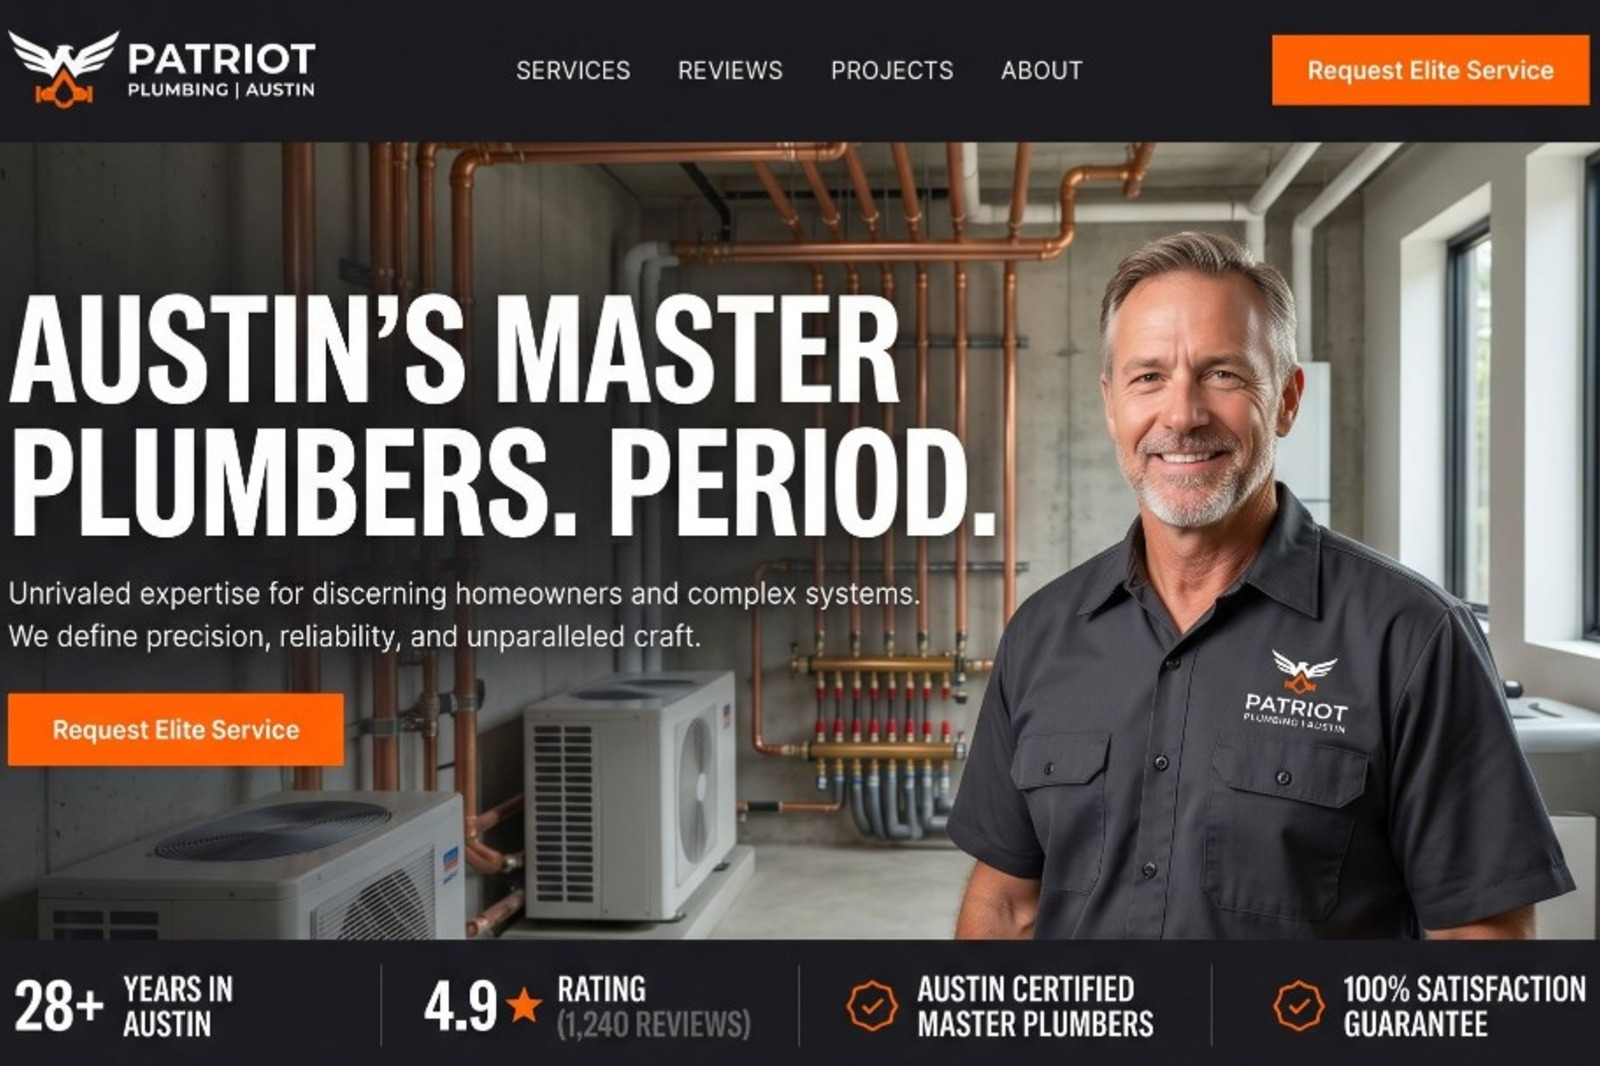
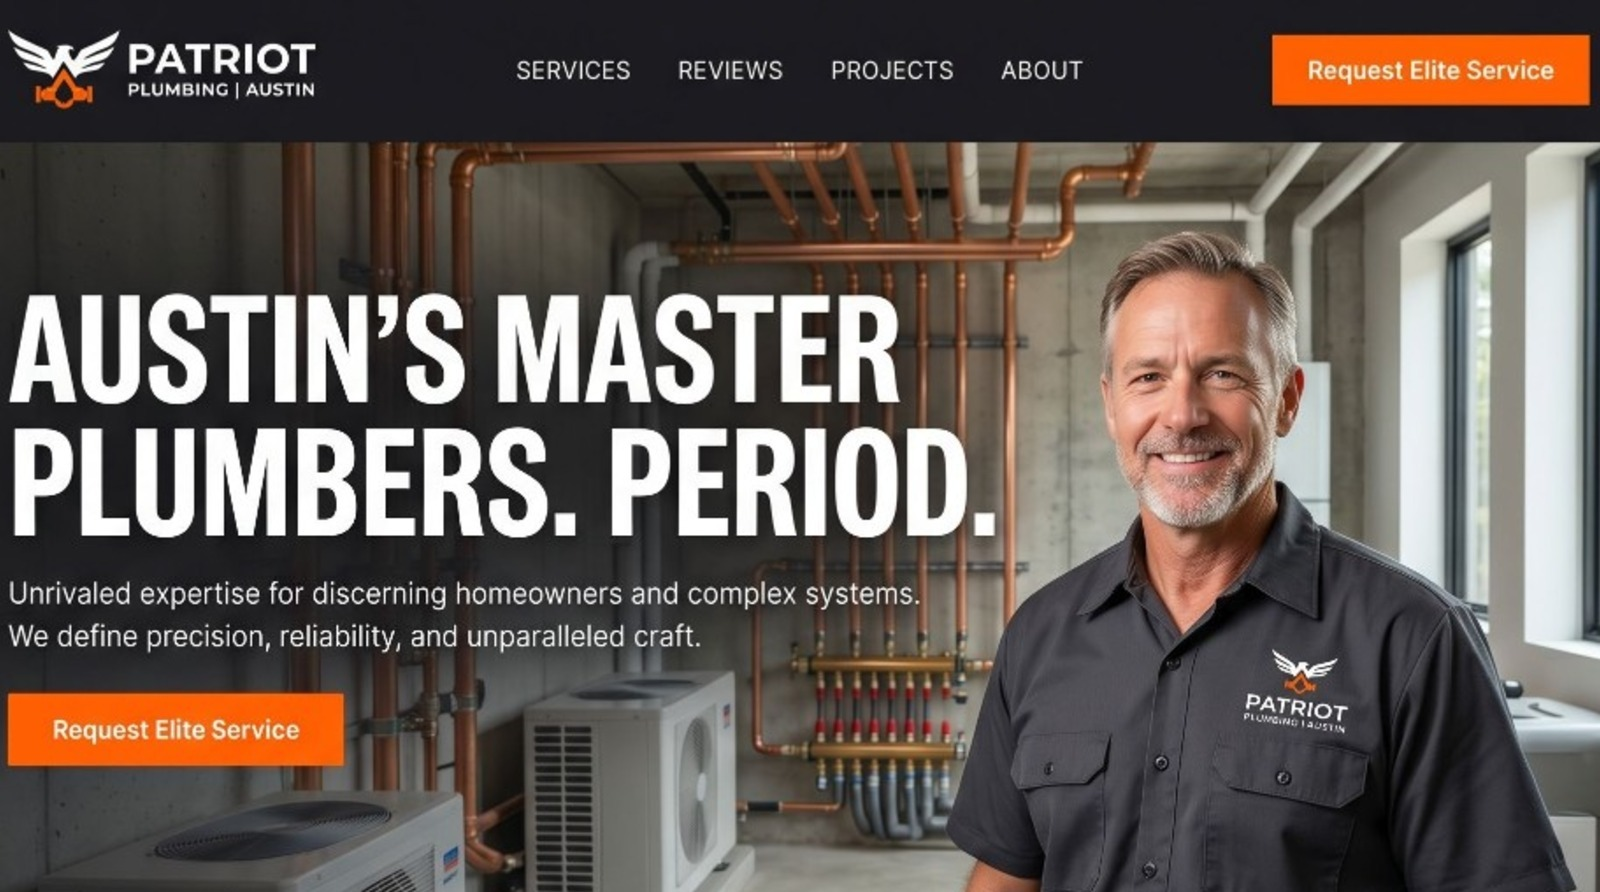
Turn the conversion lens into a multi-niche before/after showcase.
Add project navigation with fade transitions, widen the frame to the contractor mock aspect ratio, and ship fresh Plumbing, HVAC, Roofing, Contractors, and Law Firm examples.

diff --git a/scripts/conversion-mirror.js b/scripts/conversion-mirror.js
@@ -1,22 +1,65 @@
-/** Conversion lens + Before/After full-image switcher. */
+/** Conversion lens + Before/After switcher + multi-project showcase. */
+
+import { projects } from "../src/data/projects.js";
 
 const LENS_RADIUS = 150;
+
+function preload(src) {
+  return new Promise((resolve) => {
+    const img = new Image();
+    img.onload = () => resolve();
+    img.onerror = () => resolve();
+    img.src = src;
+  });
+}
 
 export function initConversionMirror() {
   const container = document.getElementById("mirrorContainer");
   const afterLayer = document.getElementById("afterLayer");
   const lensRing = document.getElementById("lensRing");
+  const beforeImg = document.getElementById("mirrorBeforeImg");
+  const afterImg = document.getElementById("mirrorAfterImg");
   const beforeBtn = document.getElementById("mirrorBeforeBtn");
   const afterBtn = document.getElementById("mirrorAfterBtn");
   const hint = document.getElementById("mirrorHint");
-  if (!container || !afterLayer || !lensRing) return;
+  const nicheLabel = document.getElementById("mirrorNicheLabel");
+  const dotsEl = document.getElementById("mirrorDots");
+  const prevBtn = document.getElementById("mirrorPrevBtn");
+  const nextBtn = document.getElementById("mirrorNextBtn");
+
+  if (!container || !afterLayer || !lensRing || !beforeImg || !afterImg) return;
+  if (!projects.length) return;
 
   let mode = "before"; // "before" | "after"
+  let index = 0;
+  let transitioning = false;
 
-  function setMode(next) {
-    mode = next;
+  function renderDots() {
+    if (!dotsEl) return;
+    dotsEl.innerHTML = projects
+      .map(
+        (project, i) => `
+        <button
+          type="button"
+          class="mirror-nav__dot${i === index ? " is-active" : ""}"
+          data-index="${i}"
+          aria-label="${project.niche}"
+          aria-pressed="${i === index ? "true" : "false"}"
+        ></button>
+      `
+      )
+      .join("");
+
+    dotsEl.querySelectorAll(".mirror-nav__dot").forEach((dot) => {
+      dot.addEventListener("click", () => {
+        const nextIndex = Number(dot.getAttribute("data-index"));
+        if (!Number.isNaN(nextIndex)) showProject(nextIndex);
+      });
+    });
+  }
+
+  function applyModeStyles() {
     const isAfter = mode === "after";
-
     container.classList.toggle("is-full-after", isAfter);
     afterLayer.setAttribute("aria-hidden", isAfter ? "false" : "true");
 
@@ -36,14 +79,57 @@ export function initConversionMirror() {
     }
 
     if (hint) {
+      const niche = projects[index]?.niche ?? "site";
       hint.textContent = isAfter
-        ? "Full After — the high-authority ToolCrate transformation."
-        : "Hover your “Conversion Lens” over the site to see the Toolcrate difference.";
+        ? `Full After — ${niche} transformation.`
+        : `Hover your “Conversion Lens” over the site to see the Toolcrate difference.`;
     }
   }
 
+  function setMode(next) {
+    mode = next;
+    applyModeStyles();
+  }
+
+  async function showProject(nextIndex, { animate = true } = {}) {
+    if (!projects.length || transitioning) return;
+    const wrapped = ((nextIndex % projects.length) + projects.length) % projects.length;
+    if (wrapped === index && beforeImg.src.includes(projects[wrapped].beforeImg)) {
+      renderDots();
+      return;
+    }
+
+    const project = projects[wrapped];
+    transitioning = true;
+
+    if (animate) {
+      container.classList.remove("is-ready");
+      container.classList.add("is-fading");
+      await new Promise((r) => setTimeout(r, 280));
+    }
+
+    await Promise.all([preload(project.beforeImg), preload(project.afterImg)]);
+
+    beforeImg.src = project.beforeImg;
+    beforeImg.alt = project.beforeAlt || `${project.niche} website before redesign`;
+    afterImg.src = project.afterImg;
+    afterImg.alt = project.afterAlt || `${project.niche} website after redesign`;
+
+    index = wrapped;
+    if (nicheLabel) nicheLabel.textContent = project.niche;
+    renderDots();
+    applyModeStyles();
+
+    // Stay faded until images paint, then fade back in
+    requestAnimationFrame(() => {
+      container.classList.add("is-ready");
+      container.classList.remove("is-fading");
+      transitioning = false;
+    });
+  }
+
   function updateLens(clientX, clientY) {
-    if (mode !== "before") return;
+    if (mode !== "before" || transitioning) return;
     const rect = container.getBoundingClientRect();
     const x = clientX - rect.left;
     const y = clientY - rect.top;
@@ -62,34 +148,36 @@ export function initConversionMirror() {
   container.addEventListener("mousemove", (e) => {
     updateLens(e.clientX, e.clientY);
   });
-
   container.addEventListener("mouseleave", hideLens);
-
   container.addEventListener(
     "touchstart",
     (e) => {
-      if (e.touches.length) {
-        updateLens(e.touches[0].clientX, e.touches[0].clientY);
-      }
+      if (e.touches.length) updateLens(e.touches[0].clientX, e.touches[0].clientY);
     },
     { passive: true }
   );
-
   container.addEventListener(
     "touchmove",
     (e) => {
-      if (e.touches.length) {
-        updateLens(e.touches[0].clientX, e.touches[0].clientY);
-      }
+      if (e.touches.length) updateLens(e.touches[0].clientX, e.touches[0].clientY);
     },
     { passive: true }
   );
-
   container.addEventListener("touchend", hideLens);
   container.addEventListener("touchcancel", hideLens);
 
   beforeBtn?.addEventListener("click", () => setMode("before"));
   afterBtn?.addEventListener("click", () => setMode("after"));
+  prevBtn?.addEventListener("click", () => showProject(index - 1));
+  nextBtn?.addEventListener("click", () => showProject(index + 1));
 
+  // Prefetch remaining project images in the background
+  projects.slice(1).forEach((project) => {
+    preload(project.beforeImg);
+    preload(project.afterImg);
+  });
+
+  renderDots();
+  if (nicheLabel) nicheLabel.textContent = projects[0].niche;
   setMode("before");
 }

diff --git a/index.html b/index.html
@@ -221,7 +221,7 @@
       margin: 0 0 1.5rem;
     }
     .mirror-container {
-      position: relative; width: 100%; aspect-ratio: 1600 / 1066;
+      position: relative; width: 100%; aspect-ratio: 1024 / 571;
       border-radius: 1.25rem; overflow: hidden;
       border: 1px solid #334155; background: #0f172a;
     }
@@ -291,6 +291,83 @@
     .mirror-switch__btn:focus-visible {
       outline: 2px solid #f97316;
       outline-offset: 2px;
+    }
+    .mirror-nav {
+      display: flex;
+      align-items: center;
+      justify-content: center;
+      gap: 1rem;
+      margin-top: 1rem;
+      flex-wrap: wrap;
+    }
+    .mirror-nav__arrow {
+      appearance: none;
+      width: 2.5rem;
+      height: 2.5rem;
+      border-radius: 9999px;
+      border: 1px solid rgba(255, 255, 255, 0.14);
+      background: rgba(255, 255, 255, 0.05);
+      color: #e4e4e7;
+      font-size: 1.125rem;
+      line-height: 1;
+      cursor: pointer;
+      transition: background 0.2s ease, border-color 0.2s ease, color 0.2s ease;
+    }
+    .mirror-nav__arrow:hover {
+      background: rgba(249, 115, 22, 0.15);
+      border-color: rgba(249, 115, 22, 0.45);
+      color: #fff;
+    }
+    .mirror-nav__arrow:focus-visible {
+      outline: 2px solid #f97316;
+      outline-offset: 2px;
+    }
+    .mirror-nav__meta {
+      display: flex;
+      flex-direction: column;
+      align-items: center;
+      gap: 0.45rem;
+      min-width: 10rem;
+    }
+    .mirror-nav__niche {
+      font-size: 0.8125rem;
+      font-weight: 600;
+      letter-spacing: 0.12em;
+      text-transform: uppercase;
+      color: #f97316;
+    }
+    .mirror-nav__dots {
+      display: flex;
+      gap: 0.45rem;
+      align-items: center;
+      justify-content: center;
+    }
+    .mirror-nav__dot {
+      appearance: none;
+      width: 0.55rem;
+      height: 0.55rem;
+      padding: 0;
+      border-radius: 9999px;
+      border: 0;
+      background: rgba(255, 255, 255, 0.25);
+      cursor: pointer;
+      transition: transform 0.2s ease, background 0.2s ease;
+    }
+    .mirror-nav__dot.is-active {
+      background: #f97316;
+      transform: scale(1.2);
+    }
+    .mirror-nav__dot:focus-visible {
+      outline: 2px solid #f97316;
+      outline-offset: 2px;
+    }
+    .mirror-container.is-fading {
+      opacity: 0;
+      transition: opacity 0.28s ease;
+    }
+    .mirror-container.is-ready {
+      opacity: 1;
+      transition: opacity 0.35s ease;
     }
   </style>
   <!-- Google Analytics -->
@@ -399,12 +476,12 @@
       </div>
       <section class="mirror-section" aria-label="Before and after website comparison">
         <p class="mirror-hint" id="mirrorHint">Hover your &ldquo;Conversion Lens&rdquo; over the site to see the Toolcrate difference.</p>
-        <div class="mirror-container" id="mirrorContainer">
+        <div class="mirror-container is-ready" id="mirrorContainer">
           <div class="layer layer-before">
-            <img src="/mirror-before.jpg" alt="Generic template-style Patriot Plumbing website before the ToolCrate redesign" loading="lazy" />
+            <img id="mirrorBeforeImg" src="/mirror-before.jpg" alt="Generic template-style Patriot Plumbing website before the ToolCrate redesign" loading="lazy" />
           </div>
           <div class="layer layer-after" id="afterLayer" aria-hidden="true">
-            <img src="/mirror-after.jpg" alt="High-authority Patriot Plumbing website after the ToolCrate redesign" loading="lazy" />
+            <img id="mirrorAfterImg" src="/mirror-after.jpg" alt="High-authority Patriot Plumbing website after the ToolCrate redesign" loading="lazy" />
           </div>
           <div class="lens-ring" id="lensRing" aria-hidden="true"></div>
         </div>
@@ -413,6 +490,14 @@
             <button type="button" class="mirror-switch__btn is-active" id="mirrorBeforeBtn" aria-pressed="true">Before</button>
             <button type="button" class="mirror-switch__btn" id="mirrorAfterBtn" aria-pressed="false">After</button>
           </div>
+        </div>
+        <div class="mirror-nav" aria-label="Project examples">
+          <button type="button" class="mirror-nav__arrow" id="mirrorPrevBtn" aria-label="Previous project">‹</button>
+          <div class="mirror-nav__meta">
+            <span class="mirror-nav__niche" id="mirrorNicheLabel">Plumbing</span>
+            <div class="mirror-nav__dots" id="mirrorDots" role="tablist" aria-label="Select project"></div>
+          </div>
+          <button type="button" class="mirror-nav__arrow" id="mirrorNextBtn" aria-label="Next project">›</button>
         </div>
       </section>
       <div style="display:grid;grid-template-columns:repeat(3,1fr);gap:2rem;max-width:36rem;margin:4rem auto 0;text-align:center;">

diff --git a/src/data/projects.js b/src/data/projects.js
@@ -1,0 +1,56 @@
+/**
+ * Conversion Lens project examples.
+ * Add niches here — beforeImg / afterImg should be 1600×892 (1024:571) in /public.
+ *
+ * @typedef {Object} MirrorProject
+ * @property {string} id
+ * @property {string} niche
+ * @property {string} beforeImg
+ * @property {string} afterImg
+ * @property {string} [beforeAlt]
+ * @property {string} [afterAlt]
+ */
+
+/** @type {MirrorProject[]} */
+export const projects = [
+  {
+    id: "patriot-plumbing",
+    niche: "Plumbing",
+    beforeImg: "/mirror-before.jpg",
+    afterImg: "/mirror-after.jpg",
+    beforeAlt: "Generic template-style Patriot Plumbing website before the ToolCrate redesign",
+    afterAlt: "High-authority Patriot Plumbing website after the ToolCrate redesign",
+  },
+  {
+    id: "apex-hvac",
+    niche: "HVAC",
+    beforeImg: "/mirror-hvac-before.jpg",
+    afterImg: "/mirror-hvac-after.jpg",
+    beforeAlt: "Generic HVAC company template site before the ToolCrate redesign",
+    afterAlt: "High-authority HVAC landing page after the ToolCrate redesign",
+  },
+  {
+    id: "summit-roofing",
+    niche: "Roofing",
+    beforeImg: "/mirror-roofing-before.jpg",
+    afterImg: "/mirror-roofing-after.jpg",
+    beforeAlt: "Generic roofing company template site before the ToolCrate redesign",
+    afterAlt: "High-authority roofing landing page after the ToolCrate redesign",
+  },
+  {
+    id: "elite-homes-contractors",
+    niche: "Contractors",
+    beforeImg: "/mirror-contractors-before.jpg",
+    afterImg: "/mirror-contractors-after.jpg",
+    beforeAlt: "Generic general contractor template site before the ToolCrate redesign",
+    afterAlt: "High-authority Elite Homes contractor website after the ToolCrate redesign",
+  },
+  {
+    id: "harper-croft-law",
+    niche: "Law Firm",
+    beforeImg: "/mirror-law-before.jpg",
+    afterImg: "/mirror-law-after.jpg",
+    beforeAlt: "Generic law firm template site before the ToolCrate redesign",
+    afterAlt: "High-authority Harper & Croft boutique law firm website after the ToolCrate redesign",
+  },
+];
